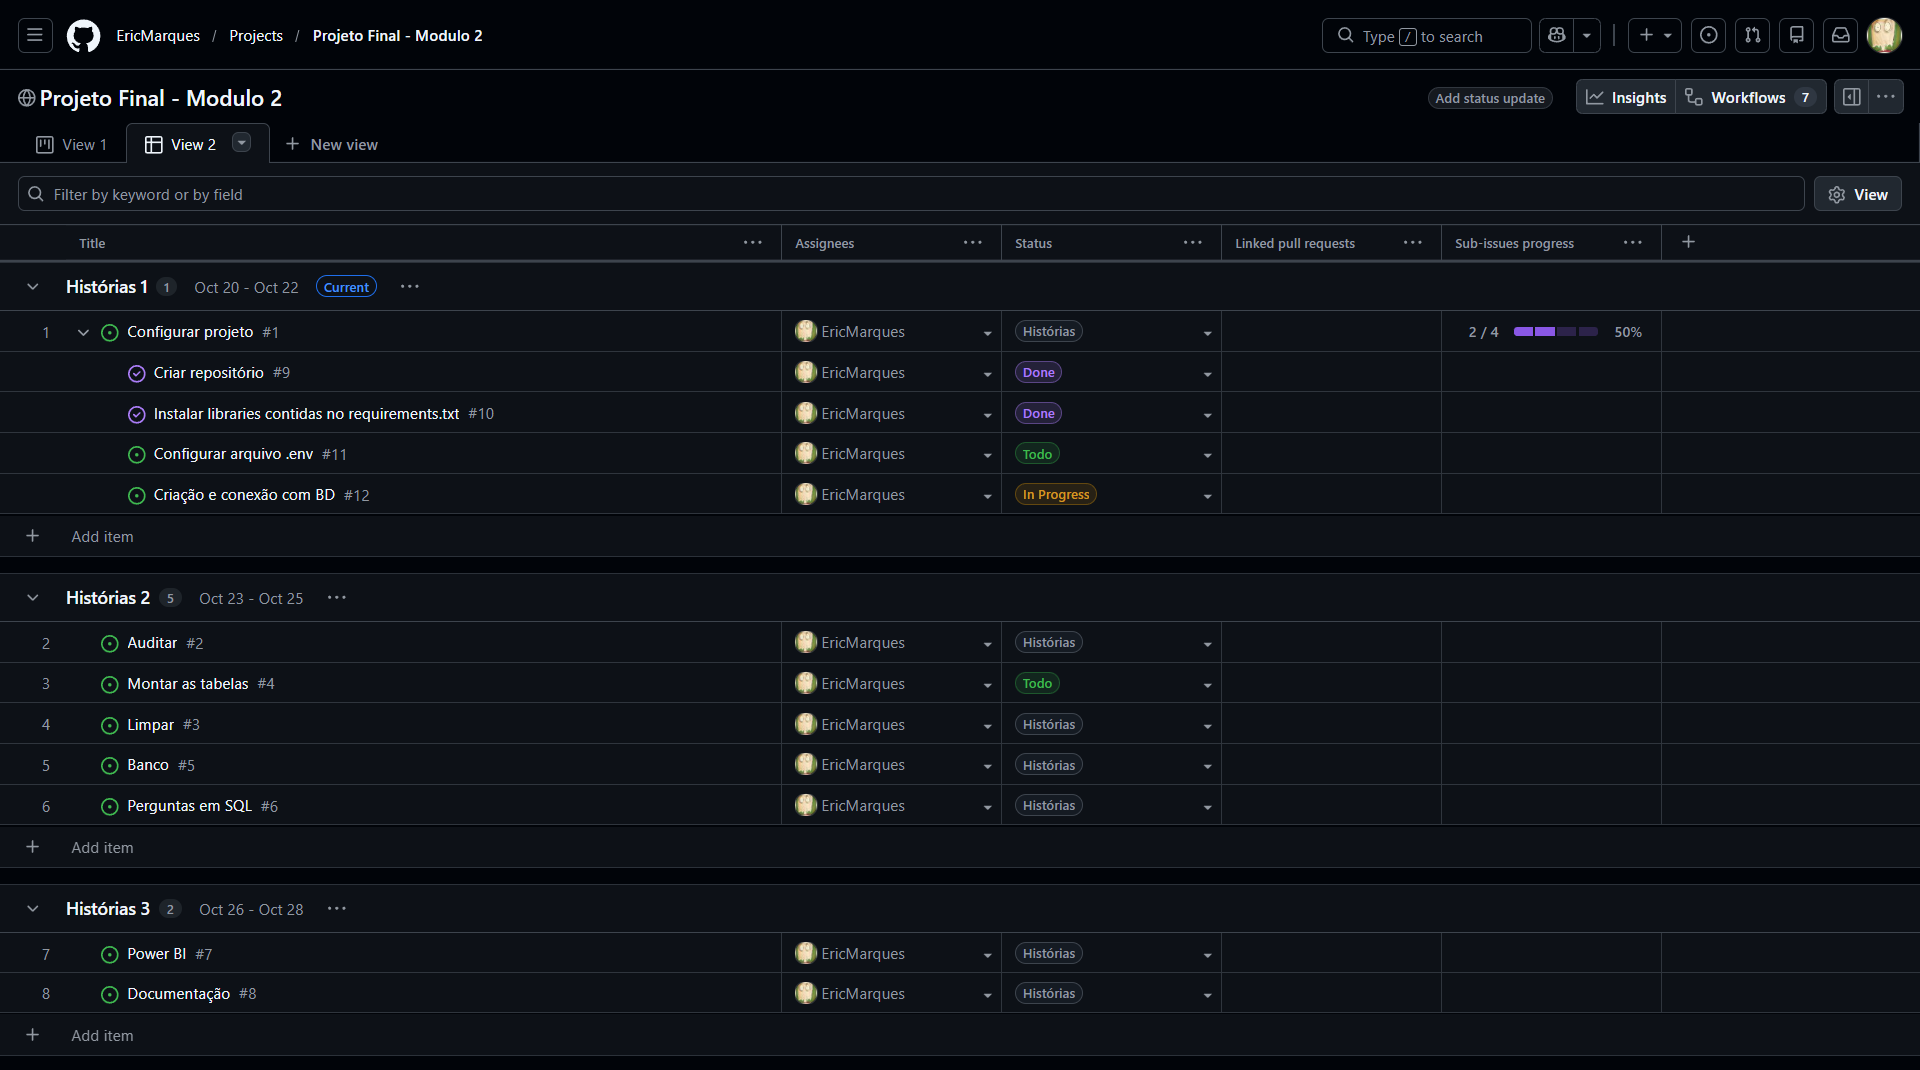
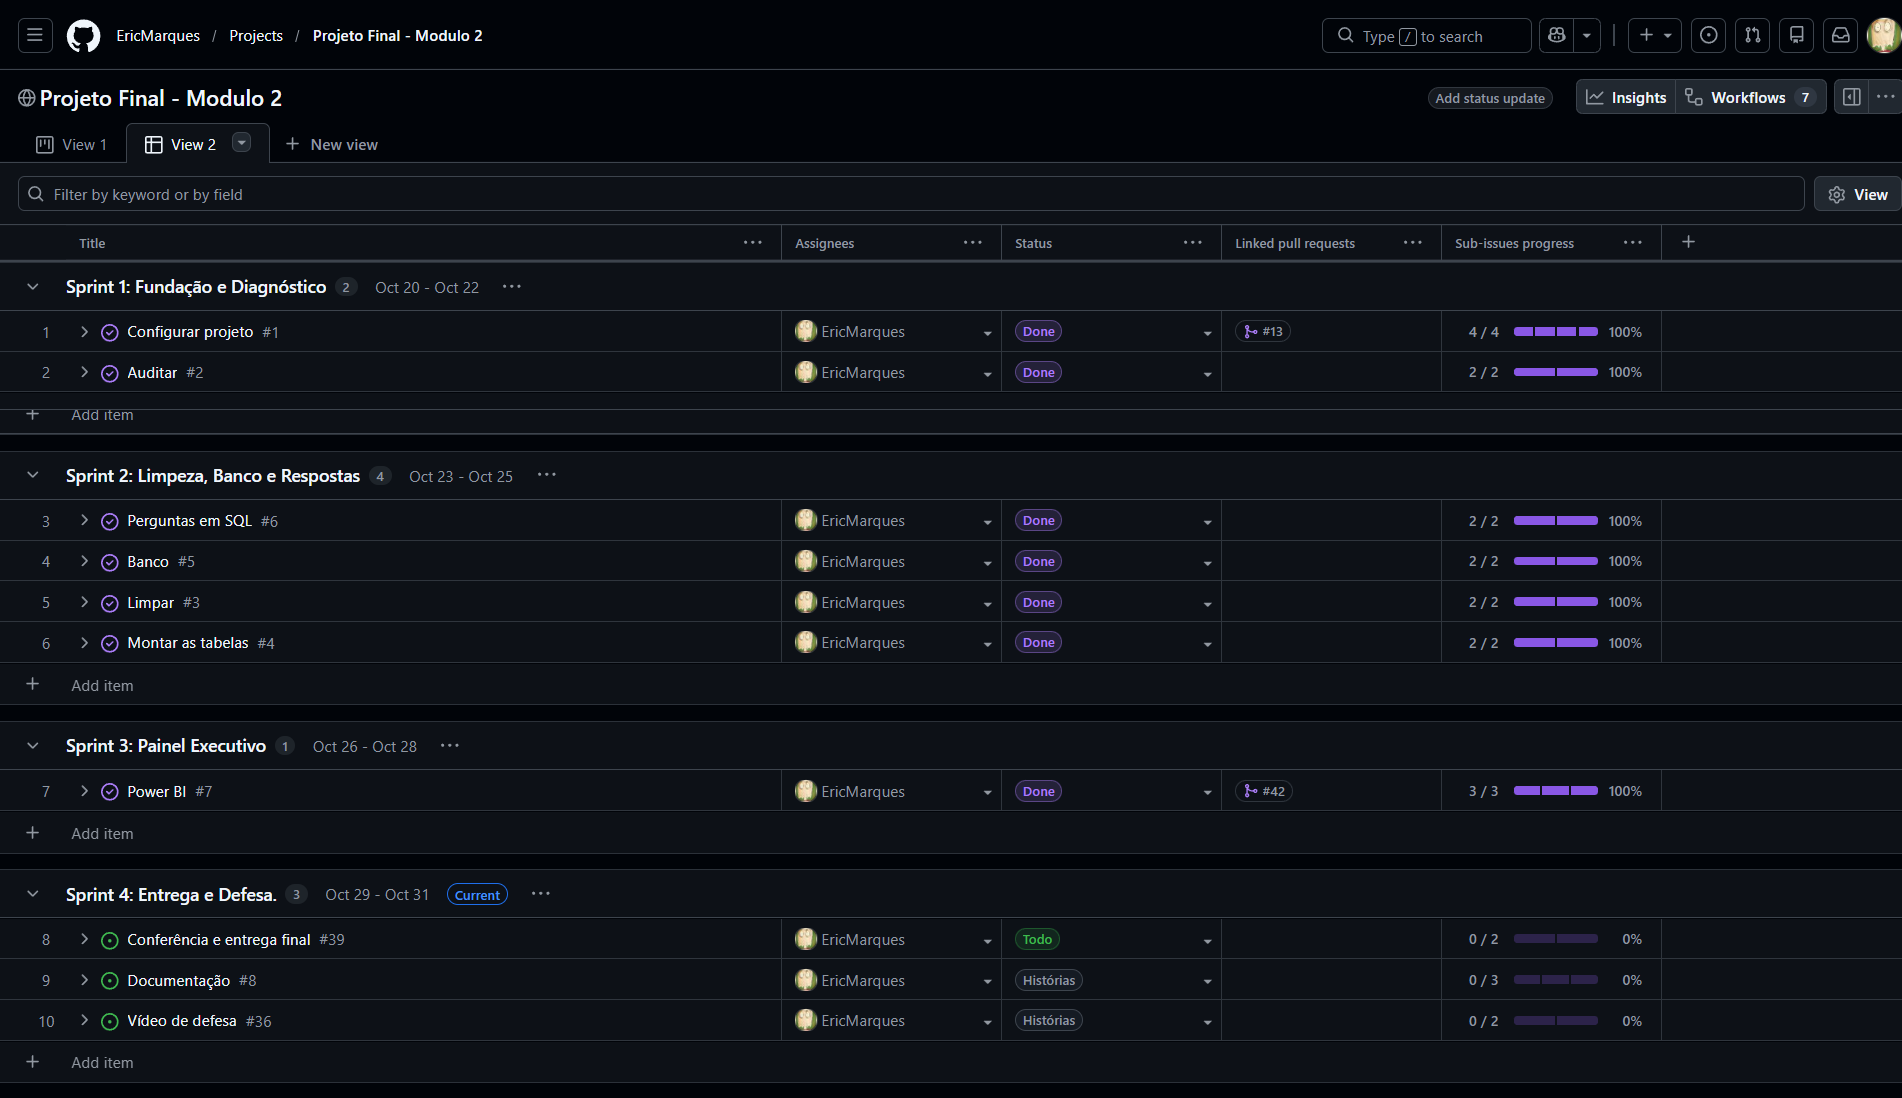
Ajustado readme

diff --git a/README.md b/README.md
@@ -66,7 +66,7 @@ sql/
   02_perguntas.sql    consultas das 6 perguntas de negócio
 powerbi/              arquivo .pbix do dashboard
 docs/
-  img/                imagens da documentação (modelo estrela no Power BI)
+  img/                imagens da documentação (modelo estrela no Power BI e figura das Sprints)
 ```
  
 ## 4. Como reproduzir
@@ -397,6 +397,7 @@ As 15 medidas ficam em uma tabela própria (`Medidas`), organizadas em pastas de
 - `Qtd Unidades Compradoras` conta `sk_orgao` na fato (e não na dimensão), porque o filtro de UF ou de região chega à fato e não à `dim_orgao`. Como alguns CNPJs aparecem em mais de uma UF, os valores por UF e por região não devem ser somados entre linhas.
 - `Deságio vs Média Geral` é formatada como número com uma casa decimal (pontos percentuais), e não como percentual.
 - `Ranking do Fornecedor` só mostra valor quando o contexto da linha é um único fornecedor (`ni_fornecedor`); no total, fica em branco.
+- Além das 15 medidas obrigatórias, a medida auxiliar `Itens com Ciclo` (pasta P4 Ciclo) conta os itens com ciclo e permite filtrar a tabela de órgãos para mostrar só os que têm 5 ou mais itens com ciclo, como na consulta do SQL.
 **Conferência com o SQL.** Os valores das medidas foram comparados com os resultados das consultas de `sql/02_perguntas.sql`, e todos coincidiram:
  
 | Medida (contexto) | Valor |
@@ -529,3 +530,32 @@ Dez estados com maior volume:
 | Bens | 3.310 | 211.185.187,86 | 2,6% | 63.802,17 | 14,19% |
  
 **Leitura:** Obras e engenharia respondem por 60,8% do volume com apenas 967 itens, e seu ticket médio (R$ 5,06 milhões) é muito maior que o de Bens (R$ 63,8 mil). Bens são 54% dos itens (3.310 de 6.126), mas só 2,6% dos recursos. Serviços têm a maior economia entre os perfis (16,11%).
+ 
+## 10. Dashboard no Power BI
+ 
+O dashboard tem 6 páginas, uma para cada pergunta de negócio. Todas seguem a mesma estrutura: a **pergunta** como título, os **números** (cartões e visuais) e a **conclusão** em uma caixa de texto no rodapé. Os valores são os mesmos das consultas de `sql/02_perguntas.sql`.
+ 
+| Página | Pergunta | Medidas | Visuais |
+|---|---|---|---|
+| 1 Economia | Quanto o governo economizou? | Volume Homologado, Valor Estimado Comparável, Economia (R$), Economia %, % de Itens Comparáveis | 5 cartões e gráfico de colunas da economia por mês de publicação |
+| 2 Fornecedores | Quem concentra o orçamento? É um risco? | Volume Homologado, Concentração Top 10 %, Participação do Fornecedor %, Ranking do Fornecedor | 2 cartões e tabela dos 10 maiores fornecedores |
+| 3 Modalidades | Qual modalidade economiza mais e qual movimenta mais? | Volume Homologado, Economia %, % de Itens Comparáveis, Participação no Volume %, Deságio vs Média Geral (p.p.) | 3 cartões e 2 gráficos de barras (participação no volume e deságio) |
+| 4 Ciclo | Onde as compras demoram mais? | Ciclo Médio, Ciclo Máximo, Itens sem Ciclo, Itens com Ciclo, Qtd Unidades Compradoras | 3 cartões e tabela por órgão (5 ou mais itens com ciclo) |
+| 5 Regional | Onde se gasta mais e onde há mais desconto? | Volume Homologado, Economia %, Qtd Unidades Compradoras, Participação no Volume % | 3 cartões, mapa de árvore por região e estado e gráfico de dispersão gasto × desconto por UF |
+| 6 Perfil | Em que o dinheiro público é gasto? | Volume Homologado, Economia %, Ticket Médio por Item, Participação no Volume % | 3 cartões, rosca do volume por perfil e gráfico de colunas (ticket médio) com linha (economia %) |
+ 
+**Navegação e interatividade**
+- **Menu retrátil:** em cada página, o botão ☰ abre um painel de navegação, e o ✕ o fecha. A abertura e o fechamento usam indicadores (bookmarks) por página, e o navegador de páginas destaca em laranja a página atual.
+- **Dica de ferramenta personalizada:** a página oculta *Tooltip Modalidade* aparece ao passar o mouse sobre as barras do gráfico de participação no volume (página 3), com volume homologado, economia %, % de itens comparáveis e ciclo médio da modalidade.
+- **Dicas de ferramenta padrão** nos gráficos de dispersão (página 5) e de ticket médio (página 6).
+**Princípios de design (CRAP)**
+- **Contraste:** o laranja é usado só para o que responde à pergunta (por exemplo, a economia e a maior fatia), em contraste com o azul-escuro e o azul-acinzentado.
+- **Repetição:** mesmo cabeçalho, mesma grade de 1280 × 720, mesmas fontes (Segoe UI) e mesmos tamanhos em todas as páginas.
+- **Alinhamento:** posições e tamanhos definidos numericamente, com margem de 24 px e espaço de 16 px entre os blocos.
+- **Proximidade:** cada pergunta reúne seus números e visuais no mesmo bloco, com a conclusão logo abaixo.
+- Visuais escolhidos conforme a pergunta (colunas, tabelas, barras, mapa de árvore, dispersão, rosca e colunas com linha), e eixos sempre iniciando em zero.
+## 11. Planejamento em Sprints
+ 
+O trabalho foi organizado em Sprints no GitHub Projects, com histórias, tarefas e sub-tarefas vinculadas às issues do repositório. A figura abaixo mostra, para cada Sprint, o nome, o período, as tarefas e o status de cada uma.
+ 
+![Sprints do projeto](docs/img/sprints.png)
